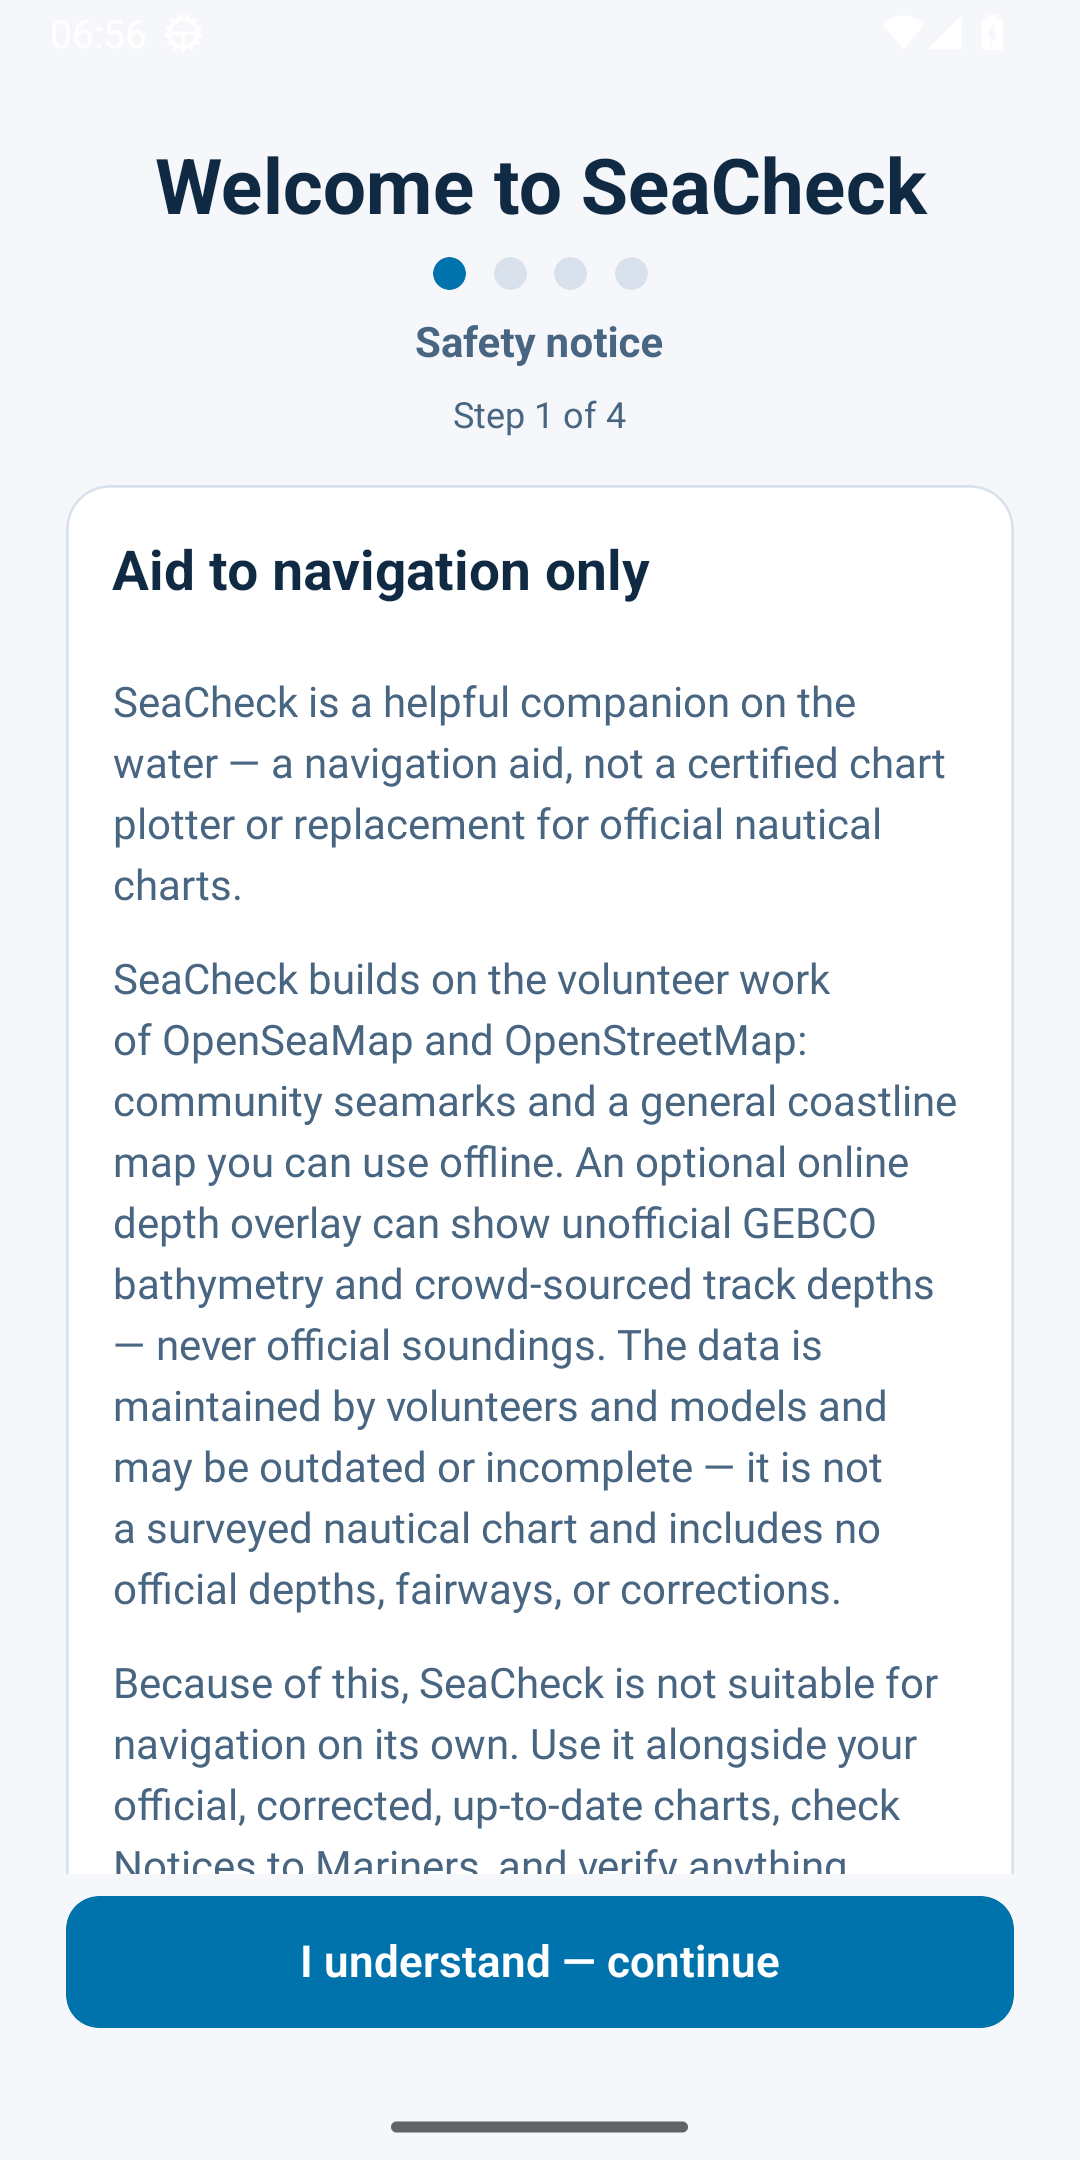
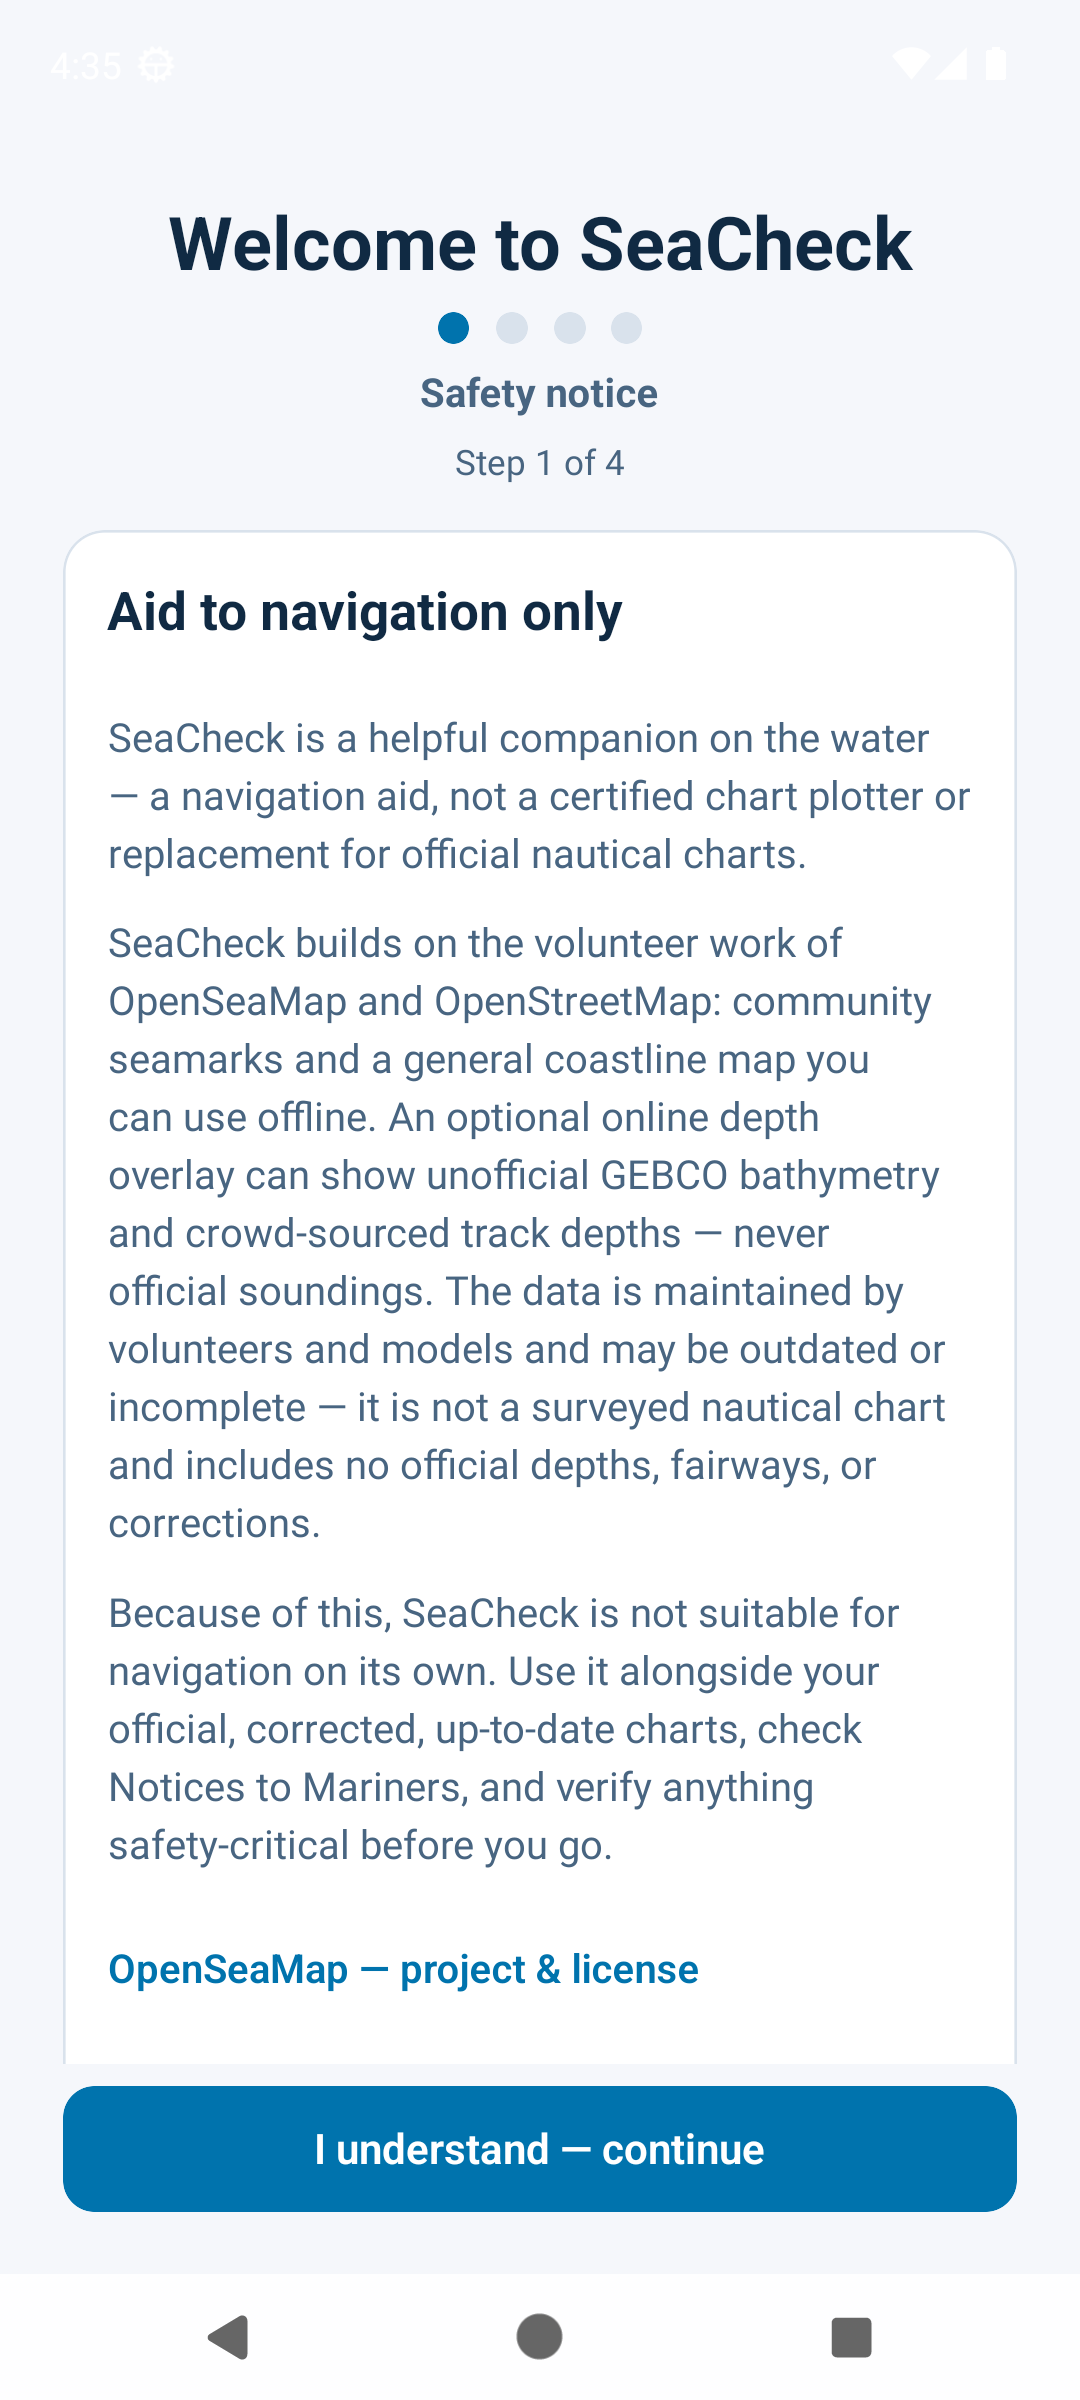
Atlas v3.5.11 pass: systemNavInsets test, src fixes, screenshots.

Changed region(s): [[0.0611, 0.2171, 0.9472, 0.9926], [0.1528, 0.062, 0.8556, 0.2171]]

diff --git a/__tests__/systemNavInsets.test.ts b/__tests__/systemNavInsets.test.ts
@@ -1,0 +1,39 @@
+/**
+ * DS §5 system-nav floor (Atlas 3.5.11): primary CTAs docked at the window
+ * bottom must survive Android 3-button nav / AVDs that report insets.bottom=0
+ * while chrome still covers ~48px. Source-scan parity with azcUiParity.test.ts.
+ */
+import fs from 'fs';
+import path from 'path';
+
+const readSrc = (rel: string) => fs.readFileSync(path.join(__dirname, '..', rel), 'utf8');
+
+describe('system-nav 48dp floor on bottom-docked chrome (DS §5)', () => {
+  it('AdaptiveTabBar pads the bottom tab bar to >=48', () => {
+    const src = readSrc('src/navigation/AdaptiveTabBar.tsx');
+    expect(src).toMatch(/paddingBottom:\s*Math\.max\(insets\.bottom,\s*48\)/);
+  });
+
+  it('BottomSheetChrome sheet pad keeps a 48 floor for footer CTAs', () => {
+    const src = readSrc('src/ui/sheetHost.tsx');
+    expect(src).toMatch(/paddingBottom:\s*Math\.max\(insets\.bottom\s*\+\s*spacing\.lg,\s*48\)/);
+  });
+
+  it('OnboardingScreen sticky disclaimer CTA clears the nav bar on zero-inset devices', () => {
+    const src = readSrc('src/screens/OnboardingScreen.tsx');
+    expect(src).toMatch(/useSafeAreaInsets/);
+    expect(src).toMatch(/Math\.max\(48\s*-\s*insets\.bottom,\s*0\)/);
+    expect(src).toMatch(/paddingBottom:\s*stickyBottomPad/);
+  });
+
+  it('DownloadFailureModal backdrop keeps a 48 floor for its buttons', () => {
+    const src = readSrc('src/ui/DownloadFailureModal.tsx');
+    expect(src).toMatch(/paddingBottom:\s*Math\.max\(insets\.bottom\s*\+\s*spacing\.md,\s*48\)/);
+  });
+
+  it('ScreenLockOverlay clamps the MOB host bottom to a 48 floor inside the window modal', () => {
+    const src = readSrc('src/features/map/ScreenLockOverlay.tsx');
+    expect(src).toMatch(/useSafeAreaInsets/);
+    expect(src).toMatch(/Math\.max\(layout\.actionsColumnBottom,\s*Math\.max\(insets\.bottom,\s*48\)\s*\+\s*spacing\.sm\)/);
+  });
+});

diff --git a/src/features/map/ScreenLockOverlay.tsx b/src/features/map/ScreenLockOverlay.tsx
@@ -1,5 +1,6 @@
 import { useCallback, useEffect, useRef, useState } from 'react';
 import { Modal, Pressable, StyleSheet, Text, View } from 'react-native';
+import { useSafeAreaInsets } from 'react-native-safe-area-context';
 
 import { useMapBottomLayout } from '../../hooks/useMapBottomLayout';
 import { useMobLayoutSwitch } from '../../hooks/useMobLayoutSwitch';
@@ -18,7 +19,8 @@ type Props = {
 
 /** Requires a deliberate hold to unlock — MOB stays reachable for emergencies. */
 export function ScreenLockOverlay({ visible, onUnlock }: Props) {
-  const { colors, minTouch } = useTheme();
+  const { colors, minTouch, spacing } = useTheme();
+  const insets = useSafeAreaInsets();
   const layout = useMapBottomLayout({ showSideActions: true });
   const layoutPreset = useEffectiveLayoutPreset();
   const isInstrumentsOnly = layoutPreset === 'instruments-only';
@@ -95,7 +97,14 @@ export function ScreenLockOverlay({ visible, onUnlock }: Props) {
             styles.mobHost,
             isInstrumentsOnly
               ? { top: layout.top, right: layout.right, alignItems: 'flex-end' }
-              : { bottom: layout.actionsColumnBottom, right: layout.right, alignItems: 'flex-end' },
+              : {
+                  // This Modal covers the whole window — actionsColumnBottom is measured
+                  // for the map pane (above the tab bar), so clamp a 48dp system-nav floor
+                  // (DS §5) to keep the MOB emergency button off the 3-button nav bar.
+                  bottom: Math.max(layout.actionsColumnBottom, Math.max(insets.bottom, 48) + spacing.sm),
+                  right: layout.right,
+                  alignItems: 'flex-end',
+                },
           ]}
         >
           <MobActionButton

diff --git a/src/screens/OnboardingScreen.tsx b/src/screens/OnboardingScreen.tsx
@@ -1,7 +1,7 @@
 import * as Location from 'expo-location';
 import { useCallback, useEffect, useState } from 'react';
 import { Platform, ScrollView, StyleSheet, Text, View } from 'react-native';
-import { SafeAreaView } from 'react-native-safe-area-context';
+import { SafeAreaView, useSafeAreaInsets } from 'react-native-safe-area-context';
 
 import {
   openSystemSettings,
@@ -35,6 +35,11 @@ function resumeStep(
 
 export function OnboardingScreen() {
   const { colors, spacing, minTouch } = useTheme();
+  const insets = useSafeAreaInsets();
+  // 48dp system-nav floor (COMPANION-DESIGN-SYSTEM §5): SafeAreaView pads by
+  // insets.bottom, but 3-button nav / zero-inset AVDs can report 0 while chrome
+  // still covers ~48px — the pinned disclaimer CTA must not sit under it.
+  const stickyBottomPad = Math.max(48 - insets.bottom, 0);
   const completeOnboarding = useSettingsStore((s) => s.completeOnboarding);
   const acknowledgeBatteryGuidance = useSettingsStore((s) => s.acknowledgeBatteryGuidance);
   const batteryGuidanceAcknowledged = useSettingsStore((s) => s.batteryGuidanceAcknowledged);
@@ -205,7 +210,7 @@ export function OnboardingScreen() {
                 <NavigationDisclaimer testIDPrefix="onboarding.disclaimer" />
               </Card>
             </ScrollView>
-            <View style={[styles.stickyCta, { minHeight: minTouch, paddingTop: spacing.sm }]}>
+            <View style={[styles.stickyCta, { minHeight: minTouch, paddingTop: spacing.sm, paddingBottom: stickyBottomPad }]}>
               <Button
                 label={t('onboarding.acceptDisclaimer')}
                 onPress={() => void acceptDisclaimer()}

diff --git a/src/ui/sheetHost.tsx b/src/ui/sheetHost.tsx
@@ -280,7 +280,10 @@ export function BottomSheetChrome({
             borderColor: colors.border,
             paddingHorizontal: spacing.lg,
             paddingTop: spacing.md,
-            paddingBottom: insets.bottom + spacing.lg,
+            // 48dp system-nav floor (COMPANION-DESIGN-SYSTEM §5): 3-button nav and
+            // some AVDs report insets.bottom=0 while chrome still covers ~48px —
+            // spacing-only pads would leave footer CTAs under the system bar.
+            paddingBottom: Math.max(insets.bottom + spacing.lg, 48),
             maxHeight: maxSheetHeight,
           },
         ]}

diff --git a/src/ui/DownloadFailureModal.tsx b/src/ui/DownloadFailureModal.tsx
@@ -31,7 +31,13 @@ export function DownloadFailureModal() {
       accessibilityViewIsModal
       statusBarTranslucent
     >
-      <View style={[styles.backdrop, { paddingTop: insets.top + spacing.md, paddingBottom: insets.bottom + spacing.md }]}>
+      <View
+        style={[
+          styles.backdrop,
+          // 48dp system-nav floor (DS §5) — keeps Copy/Dismiss clear of 3-button nav on zero-inset devices.
+          { paddingTop: insets.top + spacing.md, paddingBottom: Math.max(insets.bottom + spacing.md, 48) },
+        ]}
+      >
         <View
           style={[
             styles.sheet,

diff --git a/src/screens/settings/SettingsVesselScreen.tsx b/src/screens/settings/SettingsVesselScreen.tsx
@@ -20,7 +20,7 @@ export function SettingsVesselScreen() {
 
   async function saveVessel() {
     await useSettingsStore.getState().updateVessel(draft);
-    showSuccess(t('common.save'));
+    showSuccess(t('settings.vesselSaved'));
   }
 
   return (
